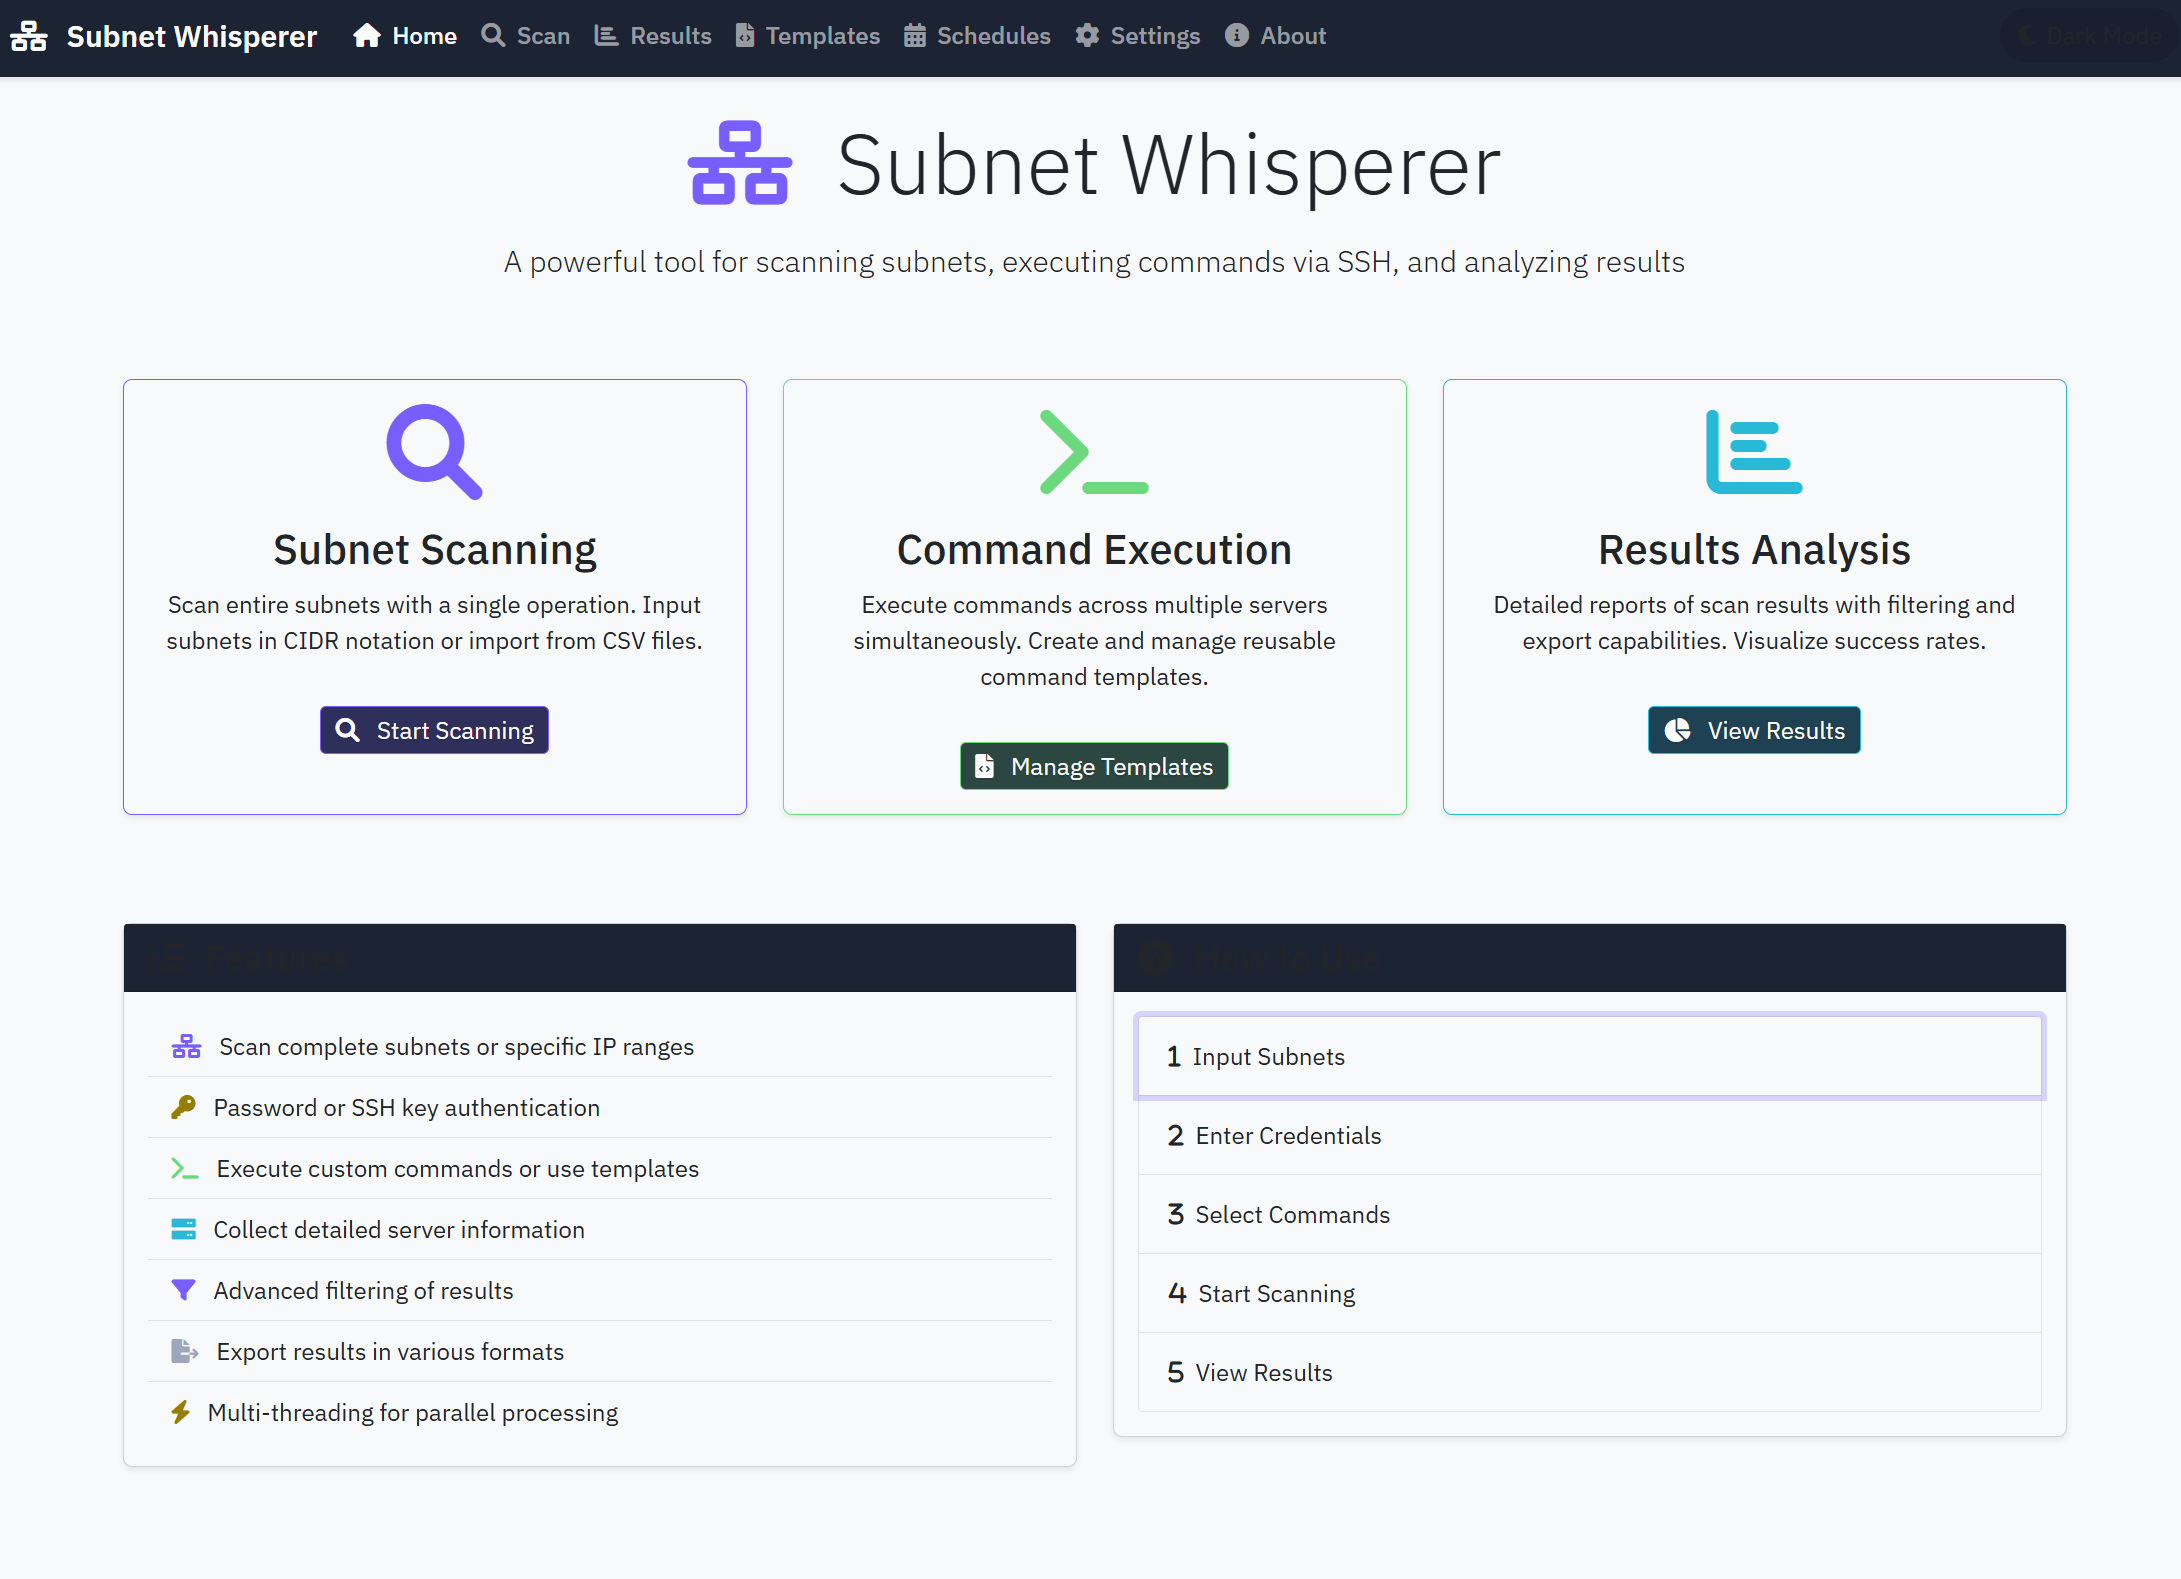
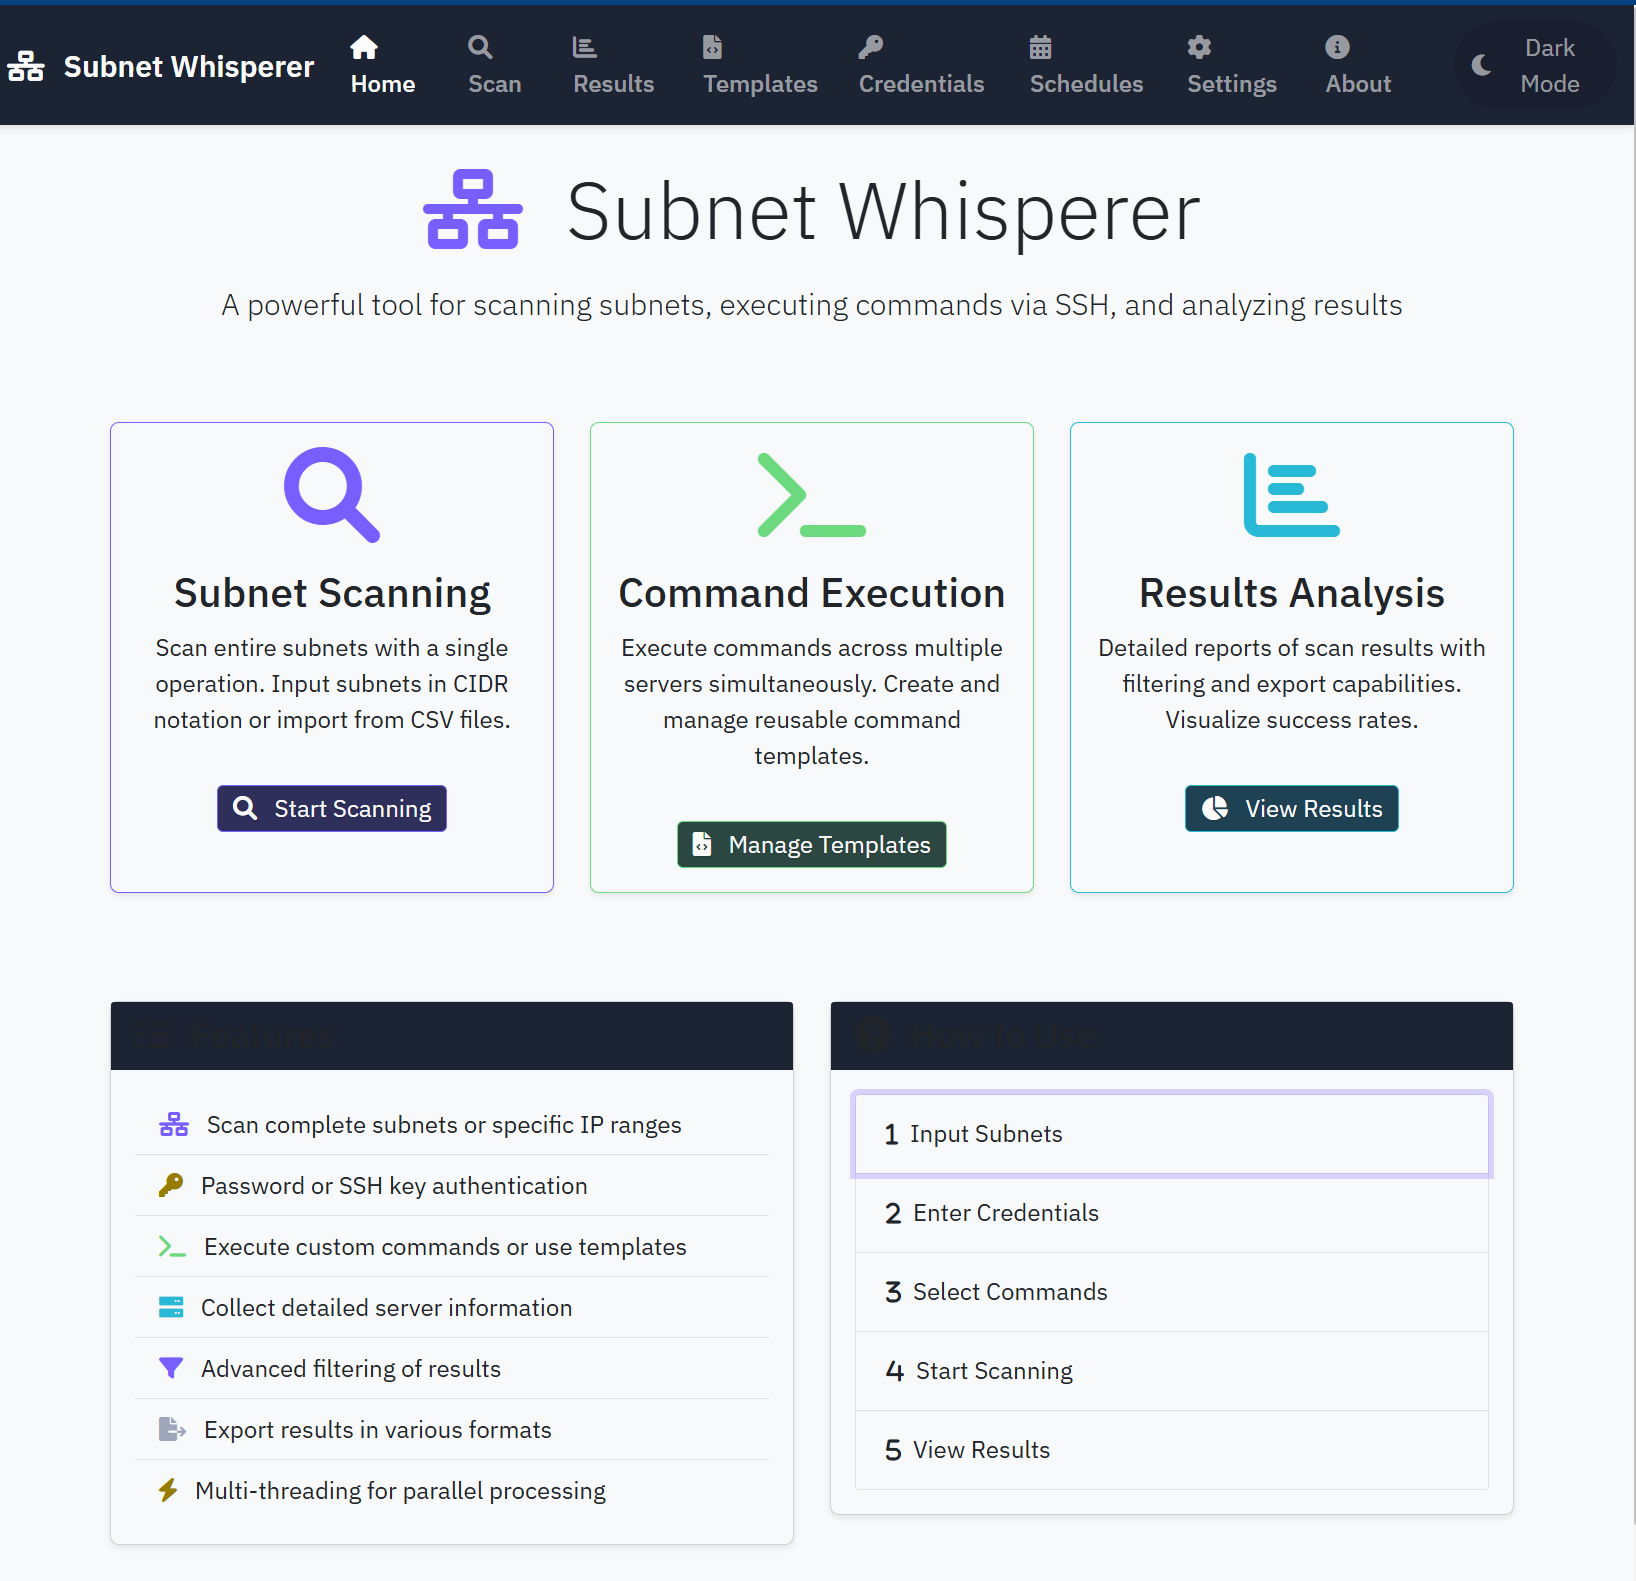
Update README and screenshots to reflect new features
Replit-Commit-Author: Agent
Replit-Commit-Session-Id: 02754c36-c4fa-4988-a437-c512294d110c
Replit-Commit-Screenshot-Url: https://storage.googleapis.com/screenshot-production-us-central1/7176d4ed-7371-4cd4-ae5a-f272497dedbb/581e97a3-4a23-4849-94e0-fee55189b2fe.jpg

diff --git a/README.md b/README.md
@@ -2,7 +2,7 @@
 
 ![Subnet Whisperer Logo](generated-icon.png)
 
-A powerful web-based tool for scanning subnets, executing commands via SSH, and analyzing results with multi-threading support.
+A powerful web-based tool for scanning subnets, executing commands via SSH, and analyzing results with multi-threading support. Featuring secure credential storage, scheduled scanning, and comprehensive server profiling capabilities.
 
 
 ## Support This Project
@@ -20,6 +20,9 @@ If you enjoy using this app, why not [![Buy Me a Coffee](https://www.buymeacoffe
 - **Export Capabilities**: Export results in CSV, JSON, or PDF format
 - **Scheduled Scans**: Set up recurring scans to automate subnet monitoring
 - **Multi-threading**: Perform parallel scanning for efficient operations
+- **Secure Credential Storage**: Store SSH credentials with Fernet symmetric encryption
+- **Multiple Credential Sets**: Save and manage multiple credential sets with auto-try functionality
+- **Customizable Theme**: Switch between dark and light mode with smooth transitions
 
 ## System Requirements
 
@@ -35,25 +38,33 @@ subnet_whisperer/
 │   └── subnet_whisperer.db
 ├── static/                    # Static assets
 │   ├── css/
-│   │   └── custom.css
+│   │   ├── custom.css        # Custom styling
+│   │   └── theme.css         # Dark/light theme support
 │   └── js/
-│       ├── main.js            # Common utility functions
-│       ├── results.js         # Results page functionality
-│       └── scan.js            # Scan page functionality
+│       ├── main.js           # Common utility functions
+│       ├── results.js        # Results page functionality
+│       ├── scan.js           # Scan page functionality
+│       └── theme.js          # Theme switching functionality
 ├── templates/                 # HTML templates
 │   ├── 404.html
 │   ├── 500.html
 │   ├── base.html             # Base template with common elements
+│   ├── credentials.html      # Credential management page
 │   ├── index.html            # Home page
 │   ├── results.html          # Results viewing page
 │   ├── scan.html             # Scan configuration page
+│   ├── schedule_form.html    # Schedule creation/editing
+│   ├── schedule_detail.html  # Schedule details
+│   ├── schedules.html        # Schedule management
 │   ├── settings.html         # Application settings
 │   └── templates.html        # Command templates management
 ├── app.py                    # Flask application and routes
+├── encryption_utils.py       # Secure encryption for credentials
 ├── forms.py                  # Form definitions
 ├── main.py                   # Application entry point
 ├── migration.py              # Database migration script
 ├── models.py                 # Database models
+├── scheduler.py              # Background scheduler for recurring scans
 ├── setup.sh                  # Installation script
 ├── ssh_utils.py              # SSH connection utilities
 └── subnet_utils.py           # Subnet parsing utilities
@@ -96,7 +107,7 @@ Steps:
    ```
 3. Install dependencies:
    ```bash
-   pip install flask flask-login flask-sqlalchemy flask-wtf gunicorn matplotlib pandas paramiko psycopg2-binary sqlalchemy wtforms email-validator
+   pip install flask flask-login flask-sqlalchemy flask-wtf gunicorn matplotlib pandas paramiko psycopg2-binary sqlalchemy wtforms email-validator cryptography bcrypt
    ```
 4. Create the instance directory:
    ```bash
@@ -217,7 +228,18 @@ Create reusable command templates for common operations:
 4. View detailed information for each scanned host
 5. Export results in CSV, JSON, or PDF format
 
-### 5. Setting Up Scheduled Scans
+### 5. Managing Credential Sets
+
+1. Navigate to the "Credentials" page
+2. Click "Add New Credential Set" to create a new set of credentials
+3. Enter a username and choose authentication type (password or SSH key)
+4. Enter password or paste SSH private key (will be securely encrypted)
+5. Optionally enter a sudo password for elevated commands
+6. Set a priority level for auto-try functionality (higher number = higher priority)
+7. Add a description to help identify the credential set
+8. View, edit, or delete credential sets as needed
+
+### 6. Setting Up Scheduled Scans
 
 1. Navigate to the "Schedules" page
 2. Click "New Schedule" to create a scheduled scan
@@ -226,19 +248,42 @@ Create reusable command templates for common operations:
 5. Define start and end dates (optional)
 6. Activate or deactivate schedules as needed
 
+## Security Features
+
+- **Credential Encryption**: SSH credentials are secured using Fernet symmetric encryption
+- **Key Derivation**: Encryption keys are derived from application secrets or environment variables
+- **Secure Storage**: Passwords, SSH keys, and sudo passwords are stored with proper encryption
+- **Multiple Credential Sets**: Create and manage multiple credential sets with different priority levels
+- **Auto-Try Functionality**: System can automatically try multiple credential sets in order of priority
+
+### Encryption Configuration
+
+For optimal security, set an `ENCRYPTION_KEY` environment variable:
+```bash
+export ENCRYPTION_KEY="your-secure-encryption-key"
+```
+
+Alternatively, set a `FLASK_SECRET_KEY` or `SECRET_KEY` environment variable:
+```bash
+export FLASK_SECRET_KEY="your-secure-application-secret"
+```
+
+If neither is provided, a temporary key will be generated, but credentials will need to be re-entered after application restart.
+
 ## Security Considerations
 
-- SSH credentials are transmitted securely but are not stored in the database
-- Private keys are only used in memory and not persisted
-- Consider using key-based authentication instead of passwords
+- Sensitive SSH credentials are encrypted in the database using Fernet symmetric encryption
+- SSH private keys are stored encrypted and only decrypted in memory when needed
+- Consider using key-based authentication instead of passwords for added security
 - Ensure you have permission to scan and connect to target hosts
-- **Important**: Server information and command outputs are stored in the database without encryption. Do not store sensitive information in the database.
+- **Important**: While credentials are encrypted, the server information and command outputs are stored in the database without encryption. Be cautious about what commands you run if they might return sensitive information.
 
 ## Troubleshooting
 
 - **SSH Connection Issues**: Verify connectivity, credentials, and firewall settings
 - **Slow Scanning**: Adjust concurrency based on your network and target environment
 - **Command Execution Failures**: Check sudo permissions on target hosts
+- **Encryption Issues**: If you get decryption errors after upgrading, you may need to re-enter credentials
 
 ## Copyright and License
 
@@ -248,11 +293,11 @@ This project is free for any use as long as you include the original copyright s
 
 ### Disclaimer
 
-**USE AT YOUR OWN RISK**: This application is a work in progress. Data stored in the database is not encrypted. The application may contain bugs or security vulnerabilities. By using this software, you assume all associated risks.
+**USE AT YOUR OWN RISK**: This application implements security best practices including credential encryption, but may still contain bugs or security vulnerabilities. By using this software, you assume all associated risks.
 
 ## Screenshots
 
-### New UI Design
+### Modern UI Design
 
 #### Dashboard View
 ![Dashboard View](attached_assets/whisperer1.png)
@@ -262,3 +307,15 @@ This project is free for any use as long as you include the original copyright s
 
 #### Scheduled Scans Manager
 ![Scheduled Scans Manager](attached_assets/whisperer3.png)
+
+#### Main Screen
+![Main Screen](attached_assets/mainscreen1.png)
+
+#### Scan Results
+![Scan Results](attached_assets/resultsscreen.png)
+
+#### Scan Configuration
+![Scan Configuration](attached_assets/scanscreen.png)
+
+#### Scheduler Interface
+![Scheduler Interface](attached_assets/scheduler.png)
